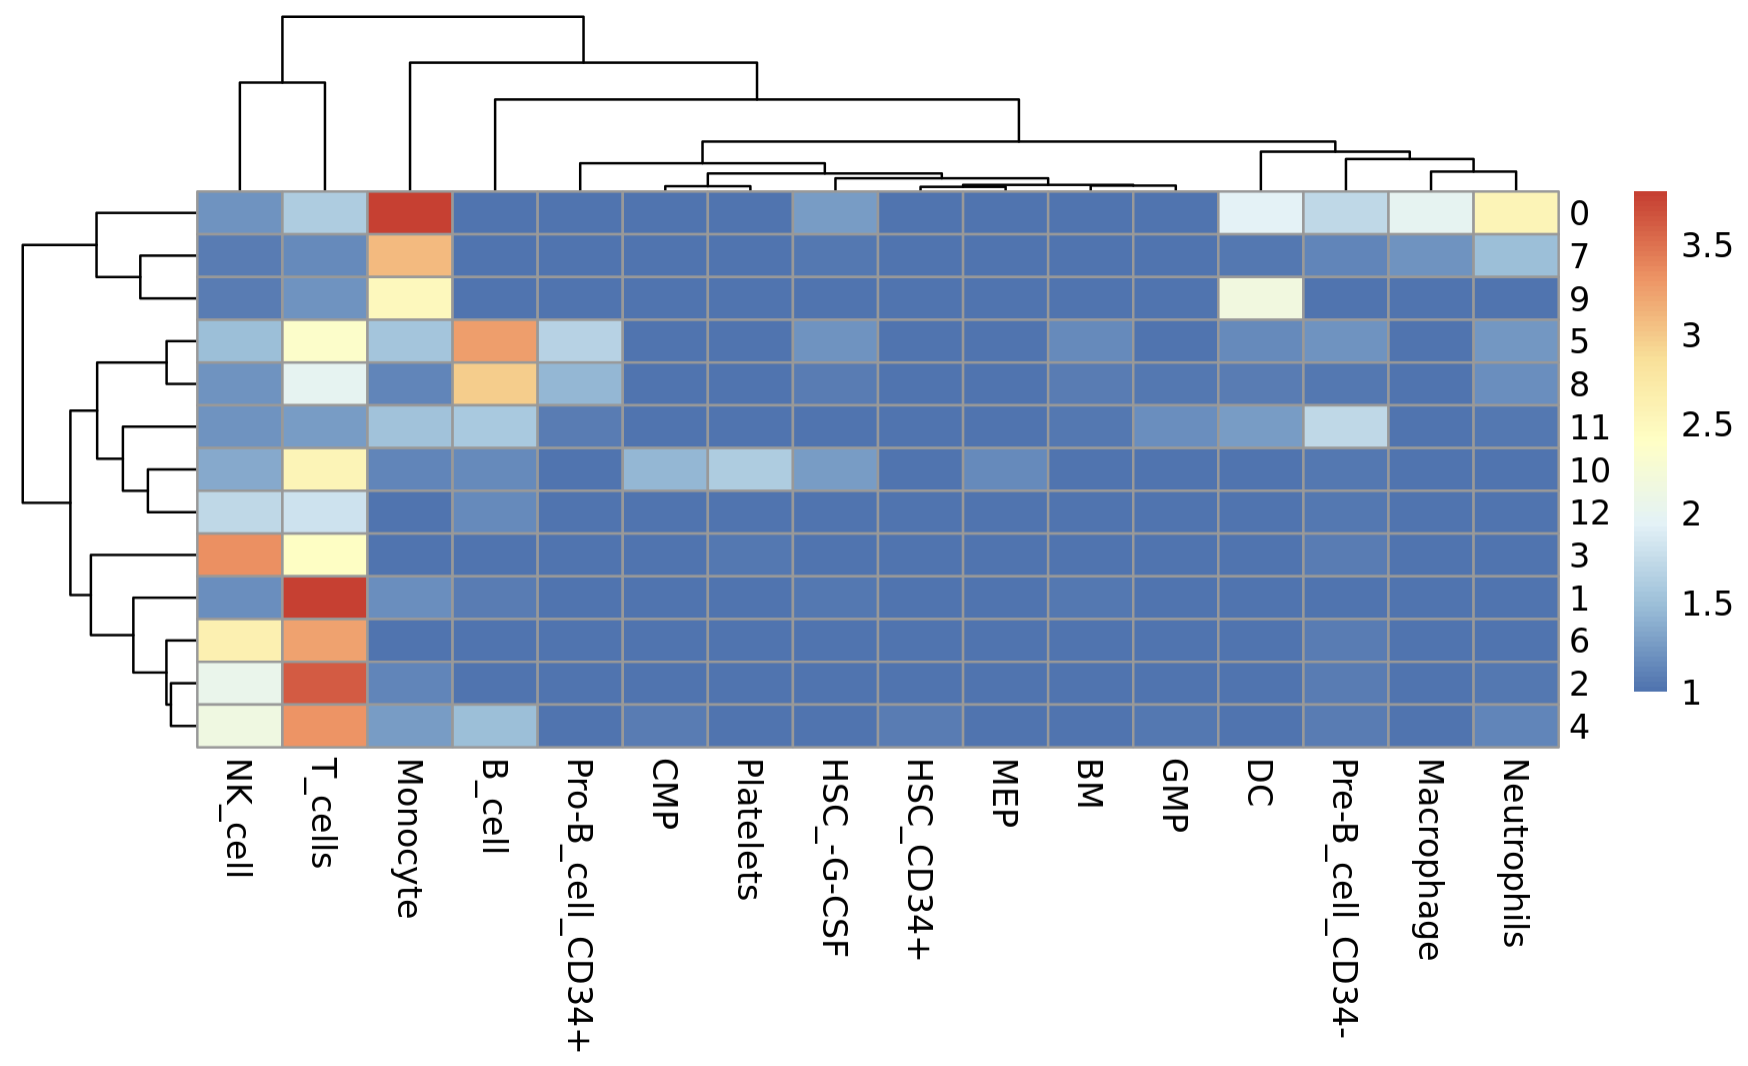
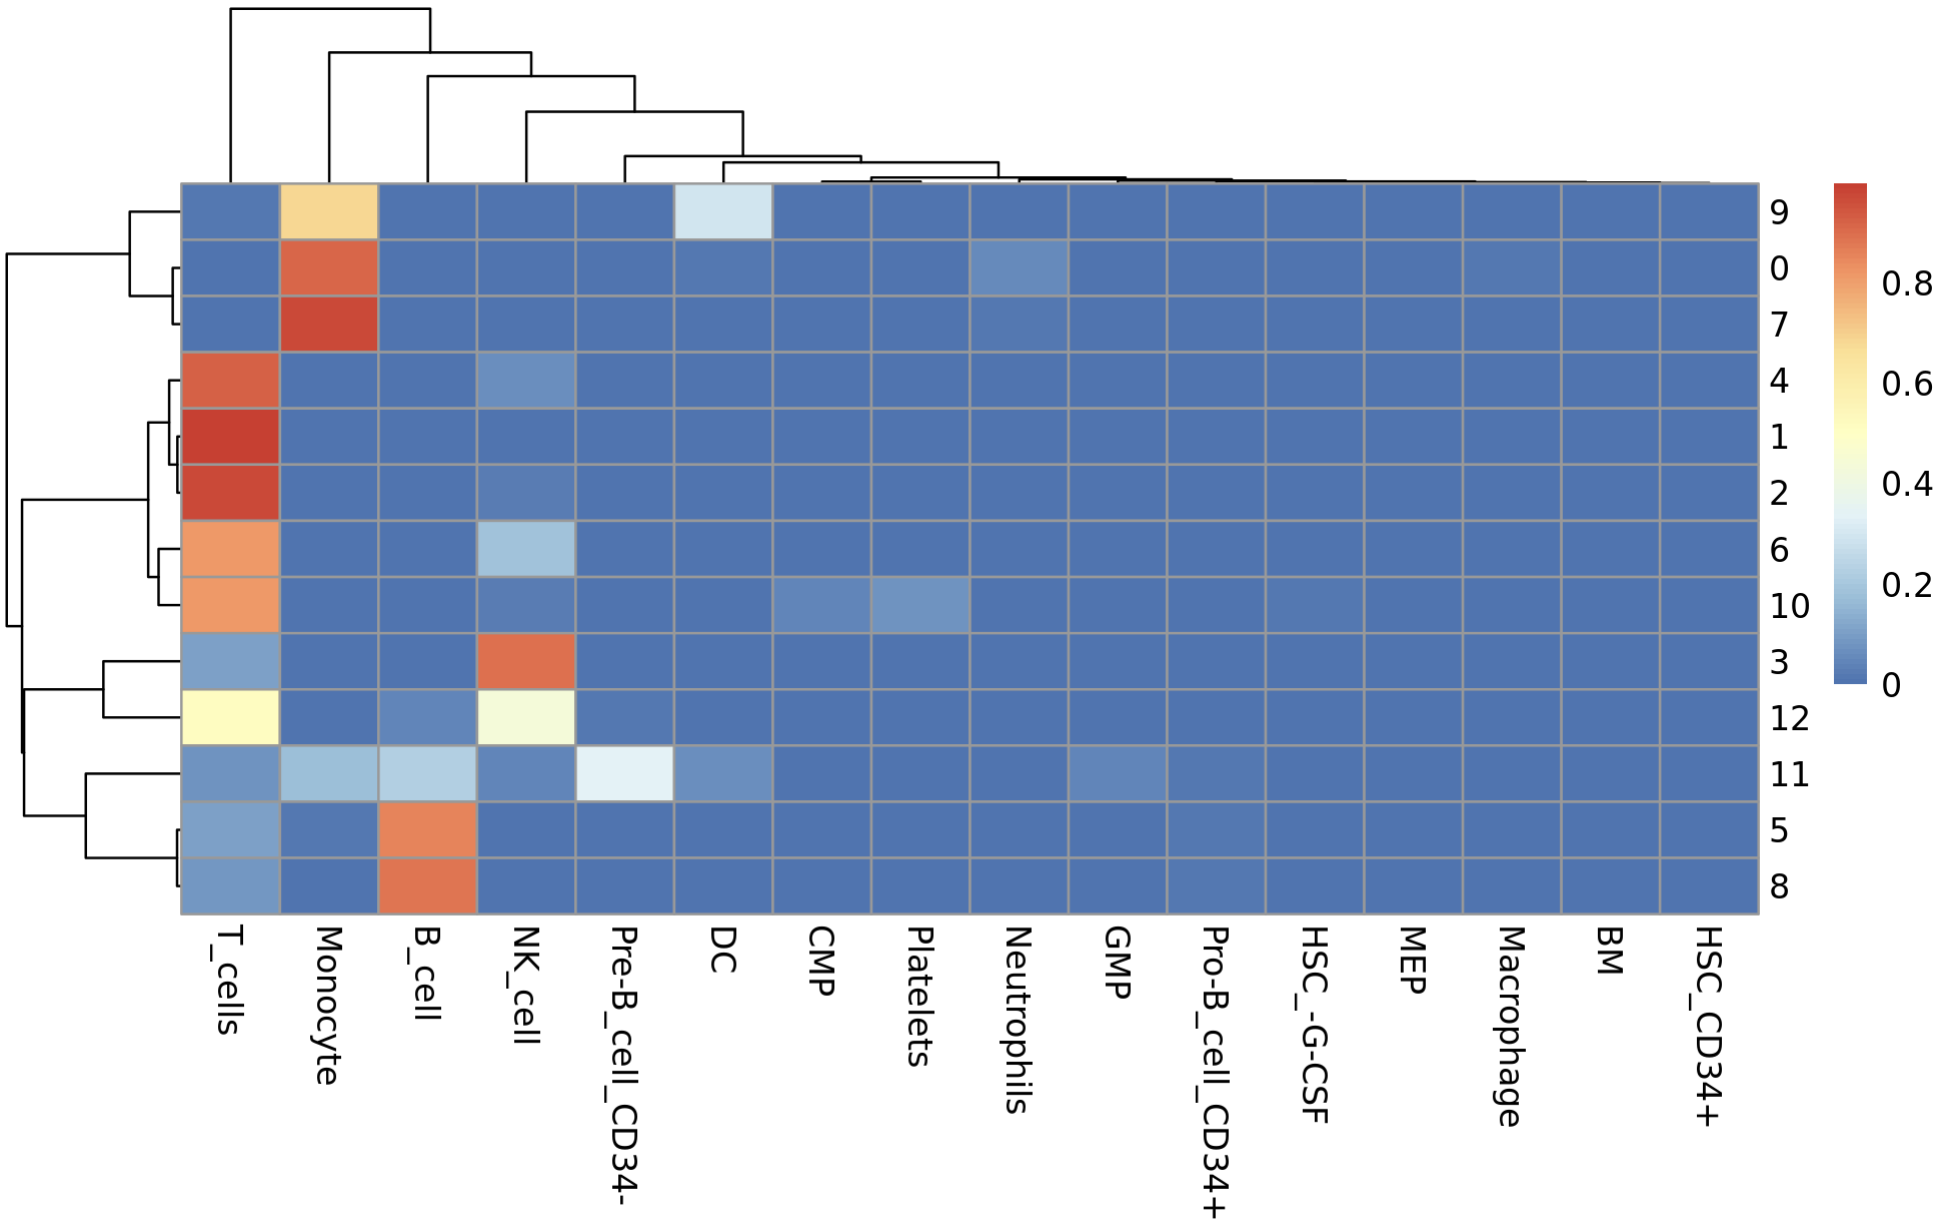
06 update

diff --git a/docs/intro_to_single_cell_rnaseq/06_cell_type_identification.md b/docs/intro_to_single_cell_rnaseq/06_cell_type_identification.md
@@ -3,9 +3,9 @@ title: "Cell type identification"
 ---
 
 # Cell-type Identification [DRAFT]
-In this section, we'll demonstrate two automated methods to label cells in our dataset using reference datasets with known cell labels.
+In this section, we'll demonstrate two automated methods to label cells in our dataset using reference datasets with known cell labels. More information on these methods is presented in [Lecture Part II)(slides/day2_temp.pdf).
 
-- [SingleR](https://bioconductor.org/packages/devel/bioc/vignettes/SingleR/inst/doc/SingleR.html) method, which uses correlation of gene expression. This method can use both single cell and bulk RNAseq reference datasets
+- [SingleR](https://bioconductor.org/packages/devel/bioc/vignettes/SingleR/inst/doc/SingleR.html) method, which uses correlation of gene expression. This method can use both single-cell and bulk RNAseq reference datasets
 - [Seurat Integration Mapping](https://satijalab.org/seurat/articles/integration_mapping.html) which applies integration between a labeled, reference single-cell RNAseq dataset and our query dataset
 
 To start, we set our library path on the HPC cluster:
@@ -21,8 +21,8 @@ We require three new packages:
 
 ```R
 suppressPackageStartupMessages({
-  library(tidyverse)
   library(Seurat)
+  library(tidyverse)
   library(cowplot)
   library(SingleR)
   library(celldex)
@@ -40,58 +40,58 @@ We begin by loading a pre-processed version of our integrated, clustered samples
 integ_seurat = readRDS(file.path(baseDir, "data/clustered_seurat.rds"))
 ```
 
-Set our identities to be the clusters found at the resolution 0.4 and plot UMAP: 
+When we left off, we had integrated our unstimulated (`ctrl`) and interferon beta stimulated (`stim`) PBMC samples and clustered the resulting dataset at resolution 0.4. We can visualize the cells both using either cluster or sample labels:
 ```R
 Idents(object = integ_seurat) <- "integrated_snn_res.0.4"
-DimPlot(integ_seurat, label=T)
-```
-![](images/integrated_cluster.png)
+p1 <- DimPlot(integ_seurat, label=T)
 
-Set our identities to be the sample type and plot UMAP:
-```R
 Idents(object = integ_seurat) <- "sample"
-DimPlot(integ_seurat)
-```
-![](images/integrated_sample.png)
-## SingleR Correlation Method 
-We'll use the [SingleR](https://github.com/LTLA/SingleR) tool along with a reference database of expression profiles of known cell types in order to identify our cells and clusters. As mentioned in the lecture, this method measures the correlation of overall gene expression between cells in a reference database with cells in the query dataset in order to label cells  
+p2 <- DimPlot(integ_seurat)
 
-To start, we'll use a general database of Human pure cell-types called the Human Primary Cell Type Atlas.  This dataset along with several others is available through the [celldex](https://rdrr.io/github/LTLA/celldex/man/HumanPrimaryCellAtlasData.html) R library. To load:
+plot_grid(p1, p2)
+```
+![](images/cluster_ident_grid_umap.png)
+
+
+## SingleR Correlation Method 
+First, we'll use [SingleR](https://github.com/LTLA/SingleR) along with a reference database of expression profiles of known cell types in order to identify our cells and clusters. As mentioned in the lecture, this method measures the correlation of overall gene expression between cells in a reference database with cells in the query dataset in order to label cells.
+
+To start, we'll use a database of bulk RNAseq profiles of Human pure cell-types called the Human Primary Cell Type Atlas.  This dataset along with several others is available through the [celldex](https://rdrr.io/github/LTLA/celldex/man/HumanPrimaryCellAtlasData.html) R library. To load, type the following, and type `yes` when prompted to create the `ExperimentHub` directory in a hidden `.cache` directory in your home folder.
 ```R
 hpca = HumanPrimaryCellAtlasData()
 ```
+The HPCA object has a data type called `Summarized Experiment` which allows one to store numeric data matrices in `assays` along with a data.frame providing annotation columns for sample in the data. 
 
-The HPCA object is of the data type called a `Summarized Experiment` which allows one to store count data matrices in assays along with metadata which annotate each cell/sample in the count data.
+![](images/hpca_graphic.png)
 
+We can access the sample annotations in the `@colData` slot, which show the sample cell-types. We can access the log-transformed expression data in the `@assay` slot.
 ```R
-head(hpca)
+head(hpca@colData)
+head(hpca@assays@data$logcounts)
 ```
-![](images/head_hpca.png)
 
-Well use in particular the label.main column of the metadata, which has the following cell-types:
-
+Well use the coarse-grained cell-type labels, `label.main`, column of the metadata, which has the following cell-types:
 ```R
 unique(hpca$label.main)
 ```
 ![](images/unique_hpca.png)
 
-Our data to be labeled is input into SingleR as a normalized count matrix, which we can extract from the `RNA` assay our `integ_seurat` object:
+The data to be labeled is input into SingleR as a log-transformed, normalized count matrix, which we can extract from the `RNA` assay our `integ_seurat` object:
 ```R
 query_counts = integ_seurat@assays$RNA@data
 ```
 
-SingleR can be run both on the cluster level and the individual cell level. For cluster-level annotation, the average expression profile of each cluster is used and a single label is generated. This is much faster to run, so we'll start here.
+`SingleR` can be run both on the cluster level and the individual cell level. For cluster-level annotation, the average expression profile of each cluster is used and a single label is generated. This is much faster to run, since we have many fewer clusters than cells, so we'll start here.
 
 ```R
 query_clusters = integ_seurat@meta.data$integrated_snn_res.0.4
 ```
 
-The following command runs SingleR on the cluster level, which should take only a few seconds. 
+The following command runs SingleR on the cluster level, without pruning, which should take only a few seconds.
 ```R
 pred_cluster <- SingleR(test = query_counts,
-                        ref = hpca,
-                        assay.type.test="logcounts",
                         clusters = query_clusters,
+                        ref = hpca,
                         labels = hpca$label.main, 
                         prune=F)
 ```
@@ -106,7 +106,7 @@ We can view the results, which contain a score for every cell type plus the fina
 view(pred_cluster)
 ```
 
-Select the score data to plot as a heatmap and the `label` column to annotate:
+Select the columns that start with `score` to plot as a heatmap and the `label` column to annotate the heatmap:
 ```R
 scores = data.frame(pred_cluster) %>%
   dplyr::select(starts_with("scores")) 
@@ -115,37 +115,40 @@ labels = data.frame(pred_cluster) %>%
   dplyr::select("labels")
 ```
 
-The scores can be plotted as a heatmap:
+The scores and chosen labels can be plotted using `pheatmap`:
 ```R
 pheatmap(scores,
          annotation_row = labels) 
 ```
 ![](images/pred_cluster_pheatmap.png)
 
-Now, make a named list with new names:
+Four cell-types were found in our data: B_cell, Monocyte, NK_cell and T_cell. However, some clusters like 10, 11, 12, do not appear to have a good match for any reference cell type.  
+
+Let's add the labels make a named list with new names:
 ```R
 new_names = pred_cluster$labels
 names(new_names) = rownames(pred_cluster)
 new_names
 ```
+![](images/cluster_label.png)
 
-Set the identities to the clusters found at resolution 0.4, rename the clusters, and add the names to the seurat metadata:
+Set the identities to the clusters found at resolution 0.4, rename the identities, and add the names to the Seurat metadata:
 ```R
 Idents(object = integ_seurat) <- "integrated_snn_res.0.4"
 integ_seurat = RenameIdents(integ_seurat, 
                                  new_names)
-integ_seurat$labels = Idents(integ_seurat)
+integ_seurat$singler_cluster_labels = Idents(integ_seurat)
 ```
 
-Let's look at the labeled clusters:
+Plot the labeled clusters:
 ```R
-Idents(integ_seurat) = "labels"
+Idents(integ_seurat) = "singler_cluster_labels"
 DimPlot(integ_seurat, 
         label=T)
 ```
 ![](images/pred_cluster_label.png)
 
-Running on the individual cell level will take longer, so we'll run it as a batch job. To do this, navigate to our scripts directory and open `singler_cell.R`. This file contains the key steps above, but eliminates the `labels` argument from the SingleR command.
+Running `SingleR` on the cell level uses the same method but eliminates the `clusters` argument from the command and enables the default pruning process. It will take ~20 minutes to run, so we'll run it as a batch job and not interactively (do not run the below code in Rstudio).
 
 ```R
 # DO NOT RUN!
@@ -155,65 +158,77 @@ pred_cell <- SingleR(test = query_counts,
                       labels = hpca$label.main)
 
 ```
+Running R scripts as batch job is convenient and does not require the Rstudio session to remain connected while the job runs. To navigate to our scripts directory and open `06_singler_cell.R`. This file contains the key steps above but runs `SingleR` on the cell level.
 
-To run it, we use the `run_singler_cell.sh` script in the `scripts` directory. Click to open the file:
+To run it, we use an `SBATCH` file that is interpreted by the cluster job scheduler called [slurm](https://tufts.app.box.com/file/780443358198?v=Pax-User-Guide). Open the file `06_run_singler_cell.sh` in the `scripts` directory. 
+
+The file contains a header which specifies the resources that the job will need so that an appropriate compute node can be allocated. Header lines start with `#SBATCH`. The body of the script specifies the code to be run once the job is started on a compute node. 
 
 ```bash
-#!/bin/bash
-#SBATCH -J run_singler
-#SBATCH --time=2:00:00 
-#SBATCH -n 1
-#SBATCH -N 1
-#SBATCH --mem=10Gb
-#SBATCH --output=%j.out 
-#SBATCH --error=%j.err 
+#!/bin/bash                       # Use the bash shell interpreter
+#SBATCH -J run_singler            # Give the job a name
+#SBATCH --time=2:00:00            # Request 2 hours
+#SBATCH -n 1                      # Request 1 core
+#SBATCH -N 1                      # Request 1 node
+#SBATCH --mem=10Gb                # Request 10 Gb
+#SBATCH --output=%j.out           # Write the job output to a file prefixed by the job number
+#SBATCH --error=%j.err            # Write the job error to a file prefixed by the job number
  
-module purge
-module load R/4.0.0
+module purge                      # Remove loaded modules
+module load R/4.0.0               # Load R module
 
-Rscript --no-save singler_cell.R
+Rscript --no-save 06_singler_cell.R  # Run the script 
 ```
-
-This contains an sbatch header which gives instructions to the HPC job scheduler, 'slurm', about resources that the job will need. 
 
 To run the script:
-- Click on `Terminal` next to `Console` in the bottom portion of the Rstudio application
-- Change to our `scripts` directory by typing `cd intro_to_scrnaseq/scripts`
-- Type `sbatch run_singler_cell.sh singler_cell.R` and press enter. 
-- Your job will be given a number by slurm and placed in the queue.
+- Click on `Terminal` next to `Console` in the bottom portion of the `Rstudio` application
+- Change to our `scripts` directory by typing `cd ~/intro_to_scrnaseq/scripts`
+- Type `sbatch 06_run_singler_cell.sh` and press enter. 
+- Your job will be given a number by `slurm` and placed in the queue.
 - To check the status of your job, type `squeue -u tufts-username` and you will see your job status. 
 
-Let's load the prepossessed results in the meantime:
+??? question "Is your job submitted successfully?"
+    - Yes (put up a green check mark in zoom)
+    - No (raise hand in zoom)
+    
+In the meantime, let's load the pre-processed cell-level labels.
 ```R
 pred_cell = readRDS(file.path(baseDir,"data/singler_hpca_cell.rds"))
+head(pred_cell)
 ```
+![](images/head_pred_cell.png)
 
-Take a look at the cell level labels which should be done running by now. We'll this time, we'll add the `pruned labeles` to the seurat object metadata. Note we add it directly to the metadata because it has one entry for each cell.
+The cell-level labels have one row for every cell. The table contains scores for each reference label as well as both a `labels` and a `pruned.labels` column. We can directly add the `pruned.labels` to the Seurat object metadata using the `AddMetaData` function. 
+
 ```R
 integ_seurat  = AddMetaData(integ_seurat,
                                  pred_cell$pruned.labels,
-                                 "hpca.labels")
+                                 "singler_cell_labels")
 ```
 
 Assign the idents and make a plot:
 ```R
-Idents(integ_seurat) = "hpca.labels"
+Idents(integ_seurat) = "singler_cell_labels"
 DimPlot(integ_seurat, 
         label=T)
 ```
 ![](images/pred_cell_label.png)
 
-We see the picture is more complex and clusters containing a mix of cell labels. We can view the breakdown per cluster as a heatmap:
+Some clusters contain a mix of cell labels. We can view the breakdown of cell-type labels per cluster using pheatmap:
 ```R
 tab <- table(cluster=integ_seurat$integrated_snn_res.0.4,
              label=pred_cell$labels)
-pheatmap(log10(tab+10)) 
-```
 
+# divide by the total number of cells in each cluster
+tab <- tab/rowSums(tab)
+
+pheatmap(tab) 
+```
 ![](images/pred_cell_heatmap.png)
 
-Some clusters appear to have a mix of cells, which may indicate that they contain a type of cell not in our reference database. This is expected since we've used a very general database. Next we'll use a single-cell RNAseq dataset that contains a perfect match and see how the labeling changes.
+??? questions "Are the dominant cell-level labels the same as the cluster-level labels? Add a row annotation of the cluster-level labels in order to compare visually". 
 
+Some clusters appear to have a mix of cells, which may indicate that they contain a type of cell not in our reference database. This is expected since we've used a very general database. Next we'll use a single-cell RNAseq dataset that we expect will have a perfect match to our data.
 
 ## Integration Mapping Method (Seurat)
 
